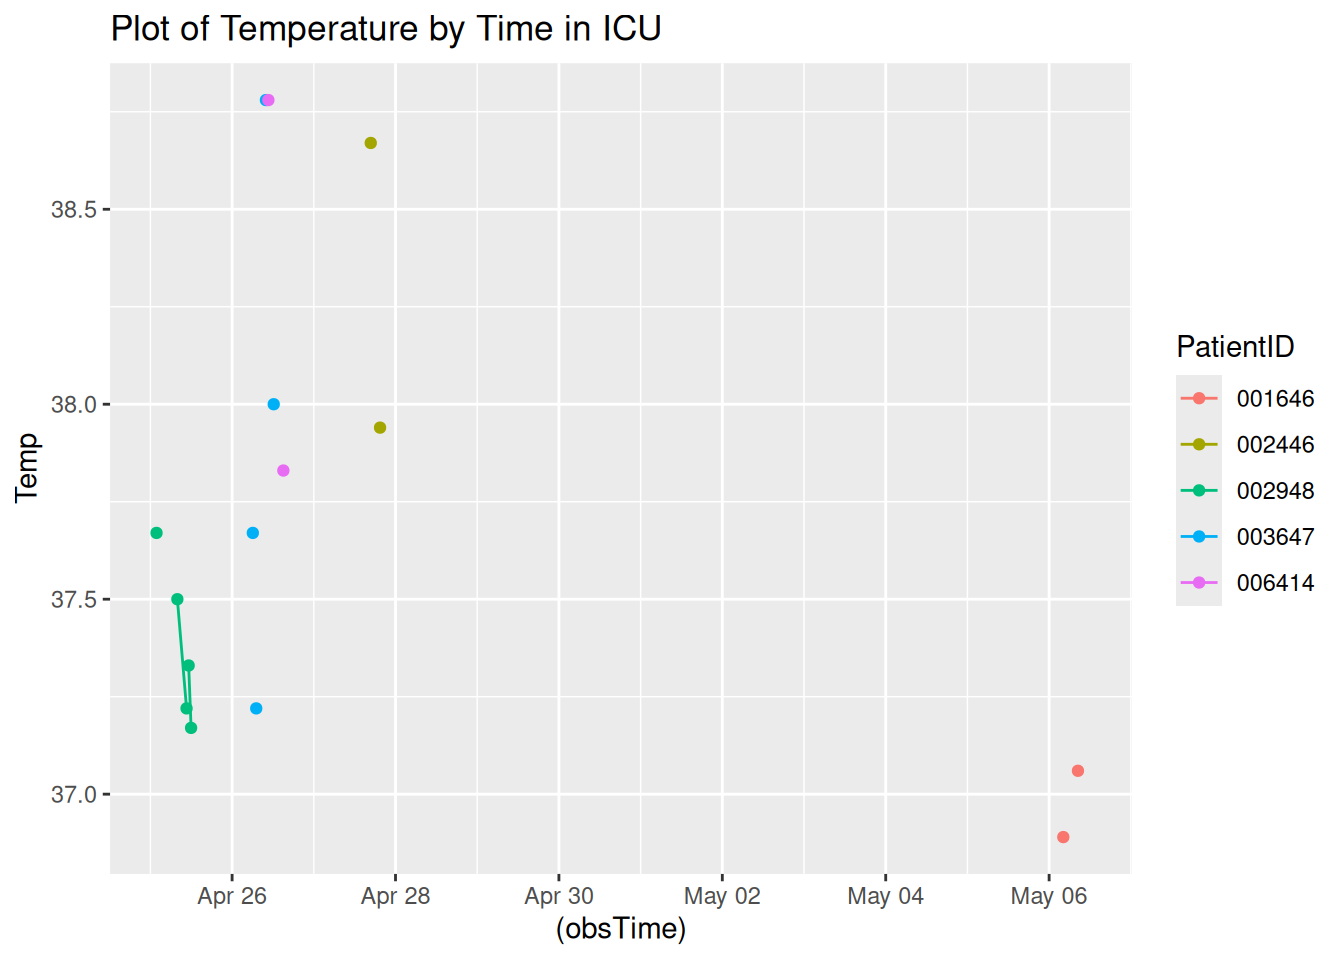
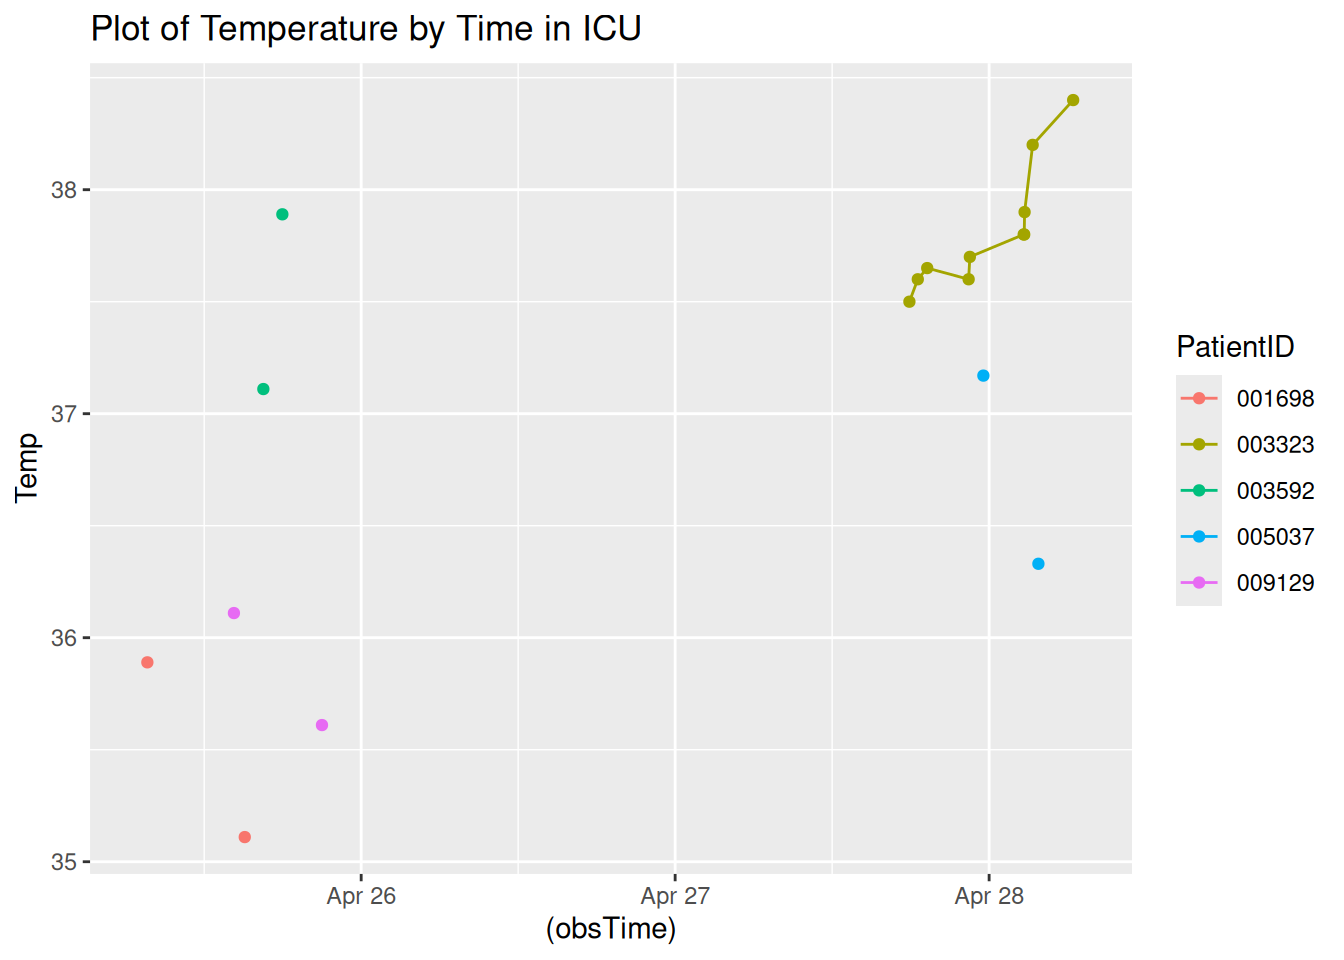
Updated report

diff --git a/A7.html b/A7.html
@@ -121,7 +121,7 @@ pre > code.sourceCode > span > a:first-child::before { text-decoration: underlin
 </div>
 <div class="code-copy-outer-scaffold"><div class="sourceCode cell-code" id="cb4"><pre class="sourceCode r code-with-copy"><code class="sourceCode r"><span id="cb4-1"><a href="#cb4-1" aria-hidden="true" tabindex="-1"></a><span class="fu">toc</span>()</span></code></pre></div><button title="Copy to Clipboard" class="code-copy-button"><i class="bi"></i></button></div>
 <div class="cell-output cell-output-stdout">
-<pre><code>26.424 sec elapsed</code></pre>
+<pre><code>28.606 sec elapsed</code></pre>
 </div>
 <div class="code-copy-outer-scaffold"><div class="sourceCode cell-code" id="cb6"><pre class="sourceCode r code-with-copy"><code class="sourceCode r"><span id="cb6-1"><a href="#cb6-1" aria-hidden="true" tabindex="-1"></a><span class="fu">tic</span>()</span>
 <span id="cb6-2"><a href="#cb6-2" aria-hidden="true" tabindex="-1"></a>test1<span class="ot">=</span><span class="fu">makeSepsisDataset</span>(<span class="at">n=</span><span class="dv">50</span>,<span class="at">read_fn =</span> <span class="st">"read_delim"</span>)</span>
@@ -131,7 +131,7 @@ pre > code.sourceCode > span > a:first-child::before { text-decoration: underlin
 </div>
 <div class="code-copy-outer-scaffold"><div class="sourceCode cell-code" id="cb8"><pre class="sourceCode r code-with-copy"><code class="sourceCode r"><span id="cb8-1"><a href="#cb8-1" aria-hidden="true" tabindex="-1"></a><span class="fu">toc</span>()</span></code></pre></div><button title="Copy to Clipboard" class="code-copy-button"><i class="bi"></i></button></div>
 <div class="cell-output cell-output-stdout">
-<pre><code>25.149 sec elapsed</code></pre>
+<pre><code>25.387 sec elapsed</code></pre>
 </div>
 <div class="code-copy-outer-scaffold"><div class="sourceCode cell-code" id="cb10"><pre class="sourceCode r code-with-copy"><code class="sourceCode r"><span id="cb10-1"><a href="#cb10-1" aria-hidden="true" tabindex="-1"></a><span class="co"># n=100</span></span>
 <span id="cb10-2"><a href="#cb10-2" aria-hidden="true" tabindex="-1"></a><span class="fu">tic</span>()</span>
@@ -142,7 +142,7 @@ pre > code.sourceCode > span > a:first-child::before { text-decoration: underlin
 </div>
 <div class="code-copy-outer-scaffold"><div class="sourceCode cell-code" id="cb12"><pre class="sourceCode r code-with-copy"><code class="sourceCode r"><span id="cb12-1"><a href="#cb12-1" aria-hidden="true" tabindex="-1"></a><span class="fu">toc</span>()</span></code></pre></div><button title="Copy to Clipboard" class="code-copy-button"><i class="bi"></i></button></div>
 <div class="cell-output cell-output-stdout">
-<pre><code>49.682 sec elapsed</code></pre>
+<pre><code>48.938 sec elapsed</code></pre>
 </div>
 <div class="code-copy-outer-scaffold"><div class="sourceCode cell-code" id="cb14"><pre class="sourceCode r code-with-copy"><code class="sourceCode r"><span id="cb14-1"><a href="#cb14-1" aria-hidden="true" tabindex="-1"></a><span class="fu">tic</span>()</span>
 <span id="cb14-2"><a href="#cb14-2" aria-hidden="true" tabindex="-1"></a>test1<span class="ot">=</span><span class="fu">makeSepsisDataset</span>(<span class="at">n=</span><span class="dv">100</span>,<span class="at">read_fn =</span> <span class="st">"read_delim"</span>)</span>
@@ -152,7 +152,7 @@ pre > code.sourceCode > span > a:first-child::before { text-decoration: underlin
 </div>
 <div class="code-copy-outer-scaffold"><div class="sourceCode cell-code" id="cb16"><pre class="sourceCode r code-with-copy"><code class="sourceCode r"><span id="cb16-1"><a href="#cb16-1" aria-hidden="true" tabindex="-1"></a><span class="fu">toc</span>()</span></code></pre></div><button title="Copy to Clipboard" class="code-copy-button"><i class="bi"></i></button></div>
 <div class="cell-output cell-output-stdout">
-<pre><code>51.213 sec elapsed</code></pre>
+<pre><code>53.304 sec elapsed</code></pre>
 </div>
 <div class="code-copy-outer-scaffold"><div class="sourceCode cell-code" id="cb18"><pre class="sourceCode r code-with-copy"><code class="sourceCode r"><span id="cb18-1"><a href="#cb18-1" aria-hidden="true" tabindex="-1"></a><span class="co"># n=500</span></span>
 <span id="cb18-2"><a href="#cb18-2" aria-hidden="true" tabindex="-1"></a><span class="fu">tic</span>()</span>
@@ -163,7 +163,7 @@ pre > code.sourceCode > span > a:first-child::before { text-decoration: underlin
 </div>
 <div class="code-copy-outer-scaffold"><div class="sourceCode cell-code" id="cb20"><pre class="sourceCode r code-with-copy"><code class="sourceCode r"><span id="cb20-1"><a href="#cb20-1" aria-hidden="true" tabindex="-1"></a><span class="fu">toc</span>()</span></code></pre></div><button title="Copy to Clipboard" class="code-copy-button"><i class="bi"></i></button></div>
 <div class="cell-output cell-output-stdout">
-<pre><code>242.782 sec elapsed</code></pre>
+<pre><code>268.802 sec elapsed</code></pre>
 </div>
 <div class="code-copy-outer-scaffold"><div class="sourceCode cell-code" id="cb22"><pre class="sourceCode r code-with-copy"><code class="sourceCode r"><span id="cb22-1"><a href="#cb22-1" aria-hidden="true" tabindex="-1"></a><span class="fu">tic</span>()</span>
 <span id="cb22-2"><a href="#cb22-2" aria-hidden="true" tabindex="-1"></a>test1<span class="ot">=</span><span class="fu">makeSepsisDataset</span>(<span class="at">n=</span><span class="dv">500</span>,<span class="at">read_fn =</span> <span class="st">"read_delim"</span>)</span>
@@ -173,7 +173,7 @@ pre > code.sourceCode > span > a:first-child::before { text-decoration: underlin
 </div>
 <div class="code-copy-outer-scaffold"><div class="sourceCode cell-code" id="cb24"><pre class="sourceCode r code-with-copy"><code class="sourceCode r"><span id="cb24-1"><a href="#cb24-1" aria-hidden="true" tabindex="-1"></a><span class="fu">toc</span>()</span></code></pre></div><button title="Copy to Clipboard" class="code-copy-button"><i class="bi"></i></button></div>
 <div class="cell-output cell-output-stdout">
-<pre><code>267.87 sec elapsed</code></pre>
+<pre><code>264.264 sec elapsed</code></pre>
 </div>
 </div>
 <p><strong>Task 3</strong></p>
@@ -209,7 +209,7 @@ readr 2.2.0.
 <span id="cb30-4"><a href="#cb30-4" aria-hidden="true" tabindex="-1"></a></span>
 <span id="cb30-5"><a href="#cb30-5" aria-hidden="true" tabindex="-1"></a><span class="fu">Sys.time</span>()</span></code></pre></div><button title="Copy to Clipboard" class="code-copy-button"><i class="bi"></i></button></div>
 <div class="cell-output cell-output-stdout">
-<pre><code>[1] "2026-04-24 23:56:22 UTC"</code></pre>
+<pre><code>[1] "2026-04-25 03:02:27 UTC"</code></pre>
 </div>
 <div class="code-copy-outer-scaffold"><div class="sourceCode cell-code" id="cb32"><pre class="sourceCode r code-with-copy"><code class="sourceCode r"><span id="cb32-1"><a href="#cb32-1" aria-hidden="true" tabindex="-1"></a>dfnew <span class="ot">&lt;-</span> df <span class="sc">%&gt;%</span></span>
 <span id="cb32-2"><a href="#cb32-2" aria-hidden="true" tabindex="-1"></a>  <span class="fu">subset</span>(SepsisLabel<span class="sc">==</span><span class="dv">1</span>)</span>
@@ -238,49 +238,49 @@ readr 2.2.0.
 </thead>
 <tbody>
 <tr class="odd">
-<td style="text-align: left;">001646</td>
-<td style="text-align: right;">278</td>
-<td style="text-align: right;">104</td>
+<td style="text-align: left;">001698</td>
+<td style="text-align: right;">14</td>
+<td style="text-align: right;">86</td>
 <td style="text-align: right;">NA</td>
-<td style="text-align: right;">23</td>
+<td style="text-align: right;">16</td>
 <td style="text-align: right;">1</td>
-<td style="text-align: left;">2026-05-06 10:46:16</td>
+<td style="text-align: left;">2026-04-25 16:54:26</td>
 </tr>
 <tr class="even">
-<td style="text-align: left;">002446</td>
-<td style="text-align: right;">73</td>
-<td style="text-align: right;">100</td>
-<td style="text-align: right;">NA</td>
-<td style="text-align: right;">24</td>
-<td style="text-align: right;">1</td>
-<td style="text-align: left;">2026-04-28 00:04:41</td>
-</tr>
-<tr class="odd">
-<td style="text-align: left;">002948</td>
-<td style="text-align: right;">15</td>
-<td style="text-align: right;">61</td>
-<td style="text-align: right;">NA</td>
+<td style="text-align: left;">003323</td>
+<td style="text-align: right;">76</td>
+<td style="text-align: right;">151</td>
+<td style="text-align: right;">38.40</td>
 <td style="text-align: right;">25</td>
 <td style="text-align: right;">1</td>
-<td style="text-align: left;">2026-04-25 14:50:36</td>
-</tr>
-<tr class="even">
-<td style="text-align: left;">003647</td>
-<td style="text-align: right;">37</td>
-<td style="text-align: right;">109</td>
-<td style="text-align: right;">NA</td>
-<td style="text-align: right;">11</td>
-<td style="text-align: right;">1</td>
-<td style="text-align: left;">2026-04-26 12:45:05</td>
+<td style="text-align: left;">2026-04-28 06:25:25</td>
 </tr>
 <tr class="odd">
-<td style="text-align: left;">006414</td>
-<td style="text-align: right;">42</td>
-<td style="text-align: right;">66</td>
+<td style="text-align: left;">003592</td>
+<td style="text-align: right;">17</td>
+<td style="text-align: right;">81</td>
 <td style="text-align: right;">NA</td>
-<td style="text-align: right;">18</td>
+<td style="text-align: right;">15</td>
 <td style="text-align: right;">1</td>
-<td style="text-align: left;">2026-04-26 17:44:13</td>
+<td style="text-align: left;">2026-04-25 19:17:21</td>
+</tr>
+<tr class="even">
+<td style="text-align: left;">005037</td>
+<td style="text-align: right;">77</td>
+<td style="text-align: right;">61</td>
+<td style="text-align: right;">NA</td>
+<td style="text-align: right;">22</td>
+<td style="text-align: right;">1</td>
+<td style="text-align: left;">2026-04-28 07:19:09</td>
+</tr>
+<tr class="odd">
+<td style="text-align: left;">009129</td>
+<td style="text-align: right;">19</td>
+<td style="text-align: right;">82</td>
+<td style="text-align: right;">35.61</td>
+<td style="text-align: right;">29</td>
+<td style="text-align: right;">1</td>
+<td style="text-align: left;">2026-04-25 21:00:13</td>
 </tr>
 </tbody>
 </table>